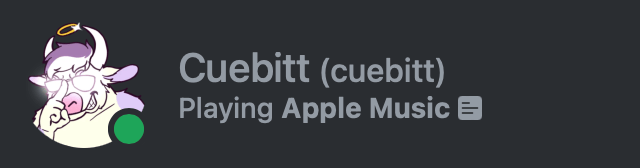
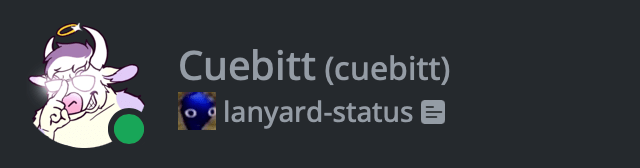
Update lanyard-status
Use similar font to discord (theirs is proprietary)
Update preview
Use Noto Color Emoji as fallback just in case
Handle custom status, custom emoji
Reduce nesting

diff --git a/components/lanyard-status/lanyard-status.js b/components/lanyard-status/lanyard-status.js
@@ -35,9 +35,7 @@ class LanyardStatus extends HTMLElement {
     this.userId = this.getAttribute("user-id") || "987555201969971210";
     this.updateInterval = this.getAttribute("update-interval") || 30;
 
-    this._apiData = await (
-      await fetch(`https://api.lanyard.rest/v1/users/${this.userId}`)
-    ).json();
+    await this.updateData();
 
     this.render();
 
@@ -118,49 +116,92 @@ class LanyardStatus extends HTMLElement {
       userDisc.classList.add("hide");
       userDisc.textContent = "#";
     } else {
-      userDisc.classList.remove("hide");
       userDisc.textContent = `(${this._apiData.data.discord_user.username}${this._apiData.data.discord_user.discriminator !== "0" ? "#" + this._apiData.data.discord_user.discriminator : ""})`;
     }
 
     // Set user activity if it exists
+    const activityIndicator =
+      this.shadowRoot.getElementById("activity-indicator");
+    const activityIndicatorTooltip =
+      this.shadowRoot.getElementById("activity-tooltip");
+
+    const customActivityEmoji = this.shadowRoot.getElementById(
+      "custom-activity-emoji",
+    );
     const act = this.shadowRoot.getElementById("activity-name");
+    const activityType = this.shadowRoot.getElementById("activity-type");
     const actContainer = this.shadowRoot.getElementById("activity-container");
     const rpcIndicator = this.shadowRoot.getElementById(
       "rich-presence-indicator",
     );
-    if (this._apiData.data.activities.length > 0) {
-      actContainer.classList.remove("hide");
 
-      // set "Listening", "Playing", "Streaming"
-      const activityType = this.shadowRoot.getElementById("activity-type");
-      if (this._apiData.data.listening_to_spotify) {
-        // Listening to Spotify
-        activityType.textContent = "Listening to";
-        act.textContent = "Spotify";
-      } else if (this._apiData.data.activities[0].application_id) {
-        // Streaming {details}
-        if (this._apiData.data.activities[0].type === 1) {
-          activityType.textContent = "Streaming";
-          act.textContent = this._apiData.data.activities[0].details;
-
-          // change the activity indicator and tooltip
-          this.shadowRoot
-            .getElementById("activity-indicator")
-            .setAttribute("status", "streaming");
-          this.shadowRoot.getElementById("activity-tooltip").textContent =
-            "Streaming";
-        } else {
-          // Playing {game}
-          activityType.textContent = "Playing";
-          act.textContent = this._apiData.data.activities[0].name;
-        }
-        rpcIndicator.classList.remove("hide");
-      } else {
-        rpcIndicator.classList.add("hide");
-      }
-    } else {
+    // If user has no activity, hide the activity section and return
+    if (this._apiData.data.activities.length <= 0) {
       act.textContent = "";
       actContainer.classList.add("hide");
+      return;
+    }
+
+    // User is streaming
+    if (this._apiData.data.activities[0].type === 1) {
+      activityType.textContent = "Streaming";
+      act.textContent = this._apiData.data.activities[0].details;
+
+      // change the activity indicator and tooltip
+      activityIndicator.setAttribute("status", "streaming");
+      activityIndicatorTooltip.textContent = "Streaming";
+
+      return;
+    }
+
+    // User has a custom activity
+    if (this._apiData.data.activities[0].id === "custom") {
+      act.textContent = "";
+      activityType.textContent = this._apiData.data.activities[0].state;
+
+      if ("emoji" in this._apiData.data.activities[0]) {
+        if ("id" in this._apiData.data.activities[0].emoji) {
+          const customEmojiImgUrl = `https://cdn.discordapp.com/emojis/${this._apiData.data.activities[0].emoji.id}.${this._apiData.data.activities[0].emoji.animated ? "gif" : "webp"}`;
+
+          customActivityEmoji.textContent = "";
+          customActivityEmoji.style = `background-image: url(${customEmojiImgUrl}); vertical-align: text-top;`;
+        } else {
+          customActivityEmoji.textContent =
+            this._apiData.data.activities[0].emoji.name;
+        }
+      } else {
+        customActivityEmoji.classList.add("hide");
+      }
+
+      // If custom activity but not rich presence, hide the rpc indicator
+      if (this._apiData.data.activities.length < 2) {
+        rpcIndicator.classList.add("hide");
+      }
+      return;
+    }
+
+    // None of the options below can have an emoji
+    customActivityEmoji.classList.add("hide");
+
+    // User is playing a game without Rich Presence
+    if (!("application_id" in this._apiData.data.activities[0])) {
+      rpcIndicator.classList.add("hide");
+      activityType.textContent = "Playing";
+      act.textContent = this._apiData.data.activities[0].state;
+      return;
+    }
+
+    // User is playing a game with Rich Presence
+    if ("application_id" in this._apiData.data.activities[0]) {
+      activityType.textContent = "Playing";
+      act.textContent = this._apiData.data.activities[0].name;
+      return;
+    }
+
+    // User is listening to Spotify
+    if (this._apiData.data.listening_to_spotify) {
+      activityType.textContent = "Listening to";
+      act.textContent = "Spotify";
     }
   }
 
@@ -168,8 +209,9 @@ class LanyardStatus extends HTMLElement {
     return /* html */ `
         <style>
     @import url('https://unpkg.com/css.gg@2.0.0/icons/css/menu-left.css');
+    @import url('https://fonts.googleapis.com/css2?family=Noto+Color+Emoji&family=Open+Sans:ital,wght@0,300..800;1,300..800&display=swap');
     :host {
-    font-family: system-ui, "Segoe UI", Roboto, Helvetica, Arial, sans-serif, "Apple Color Emoji", "Segoe UI Emoji", "Segoe UI Symbol";
+    font-family: "Open Sans", sans-serif, "Apple Color Emoji", "Segoe UI Emoji", "Segoe UI Symbol", "Noto Color Emoji";
     --bg-color: #2b2d31;
     --text-color: rgb(148, 155, 164);
     box-sizing: border-box;
@@ -211,7 +253,7 @@ class LanyardStatus extends HTMLElement {
     font-weight: bold;
     }
     .hide {
-    display: none;
+    display: none !important;
     }
     .avatar-container {
     position: relative;
@@ -277,6 +319,12 @@ class LanyardStatus extends HTMLElement {
     border-style: solid;
     border-color: black transparent transparent transparent;
     }
+    .custom-activity-emoji {
+      width: 19px;
+      height: 19px;
+      background-size: contain;
+      display: inline-block;
+    }
 </style>
 <div class="outer-container" id="lanyard-status-component">
     <div class="avatar-container">
@@ -292,6 +340,7 @@ class LanyardStatus extends HTMLElement {
             <span id="user-discriminator" class="user-discriminator"><span>
         </div>
         <div class="activity-container" id="activity-container">
+          <div id="custom-activity-emoji" class="custom-activity-emoji"></div>
             <span id="activity-type" class="activity-type">Playing</span>
             <span id="activity-name" class="activity-name"></span>
             <div id="rich-presence-indicator" class="rich-presence-indicator">
